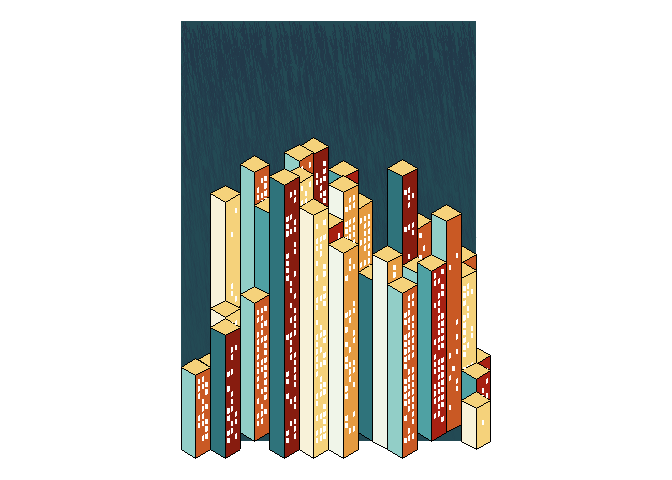
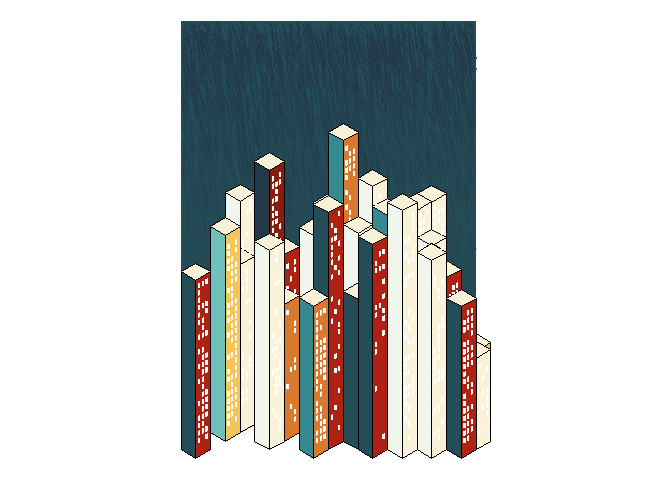
Added MetBrewer palettes

Changed region(s): [[0.25, 0.25, 0.75, 0.9688]]

diff --git a/README.md b/README.md
@@ -18,6 +18,7 @@ For this system I use the following packages:
 library(dplyr) # A Grammar of Data Manipulation
 library(ggplot2) # Create Elegant Data Visualisations Using the Grammar of Graphics
 library(glue) # Interpreted String Literals
+library(MetBrewer) # Color Palettes Inspired by Works at the Metropolitan Museum of Art
 library(MexBrewer) # Color Palettes Inspired by Works of Mexican Muralists
 library(sf) # Simple Features for R
 ```
@@ -384,9 +385,20 @@ Plot clipped towers:
 ``` r
 set.seed(seed)
 
-palettes <- c("Alacena", "Atentado", "Aurora", "Concha", "Frida", "Revolucion", "Ronda", "Tierra")
+# Select collection of color palettes
+edition <- sample(c("MexBrewer", "MetBrewer"), 1)
 
-col_palette <- mex.brewer(sample(palettes, 1), n = max(clipped_towers$c) + 2)
+if(edition=="MexBrewer"){
+  # Randomly select a color palette (MexBrewer Edition)
+  palette_name <- sample(c("Alacena", "Atentado", "Aurora", "Concha", "Frida", "Revolucion", "Ronda", "Tierra"), 1)
+  # col_palette <- mex.brewer(palette_name, n = 25)
+  col_palette <- mex.brewer(palette_name, n = max(clipped_towers$c))
+  
+}else{
+  # Randomly select a color palette (MetBrewer Edition)
+  palette_name <- sample(c("Austria", "Cassatt1", "Cassatt2", "Cross", "Degas", "Derain", "Egypt", "Gauguin", "Greek", "Hiroshige", "Hokusai1", "Hokusai2", "Hokusai3", "Homer1", "Homer2", "Ingres", "Isfahan1", "Isfahan2", "Juarez", "Klimt", "Lakota", "Manet", "Monet", "Moreau", "Morgenstern", "Nattier", "Navajo", "NewKingdom", "Nizami", "OKeeffe1", "OKeeffe2", "Peru1", "Peru2", "Pillement", "Pissaro", "Redon", "Renoir", "Robert", "Signac", "Stevens", "Tara", "Thomas", "Tiepolo", "Troy", "Tsimshian", "VanGogh1", "VanGogh2", 'VanGogh3', "Veronese", "Wissing"), 1)
+  col_palette <- met.brewer(palette_name, n = max(clipped_towers$c))
+}
 
 min_y <- df |> 
   filter(x == min(x)) |> 
@@ -397,7 +409,7 @@ ggplot() +
   # This is the background of the image
   geom_rect(aes(xmin = min(df$x) - 1, 
             xmax = max(df$x), 
-            ymin = min_y + tan(pi/6), 
+            ymin = min_y + tan(pi/6) + 2, 
             ymax = 30),
             fill = col_palette[length(col_palette) - 1]) + 
   # This is the probabilistic hatching
@@ -437,4 +449,4 @@ ggsave(glue("outputs/skyline-{seed}.png"),
 #> Saving 7 x 8 in image
 ```
 
-![](outputs/skyline-685549.png)<!-- -->
+![](outputs/skyline-742027.png)<!-- -->
